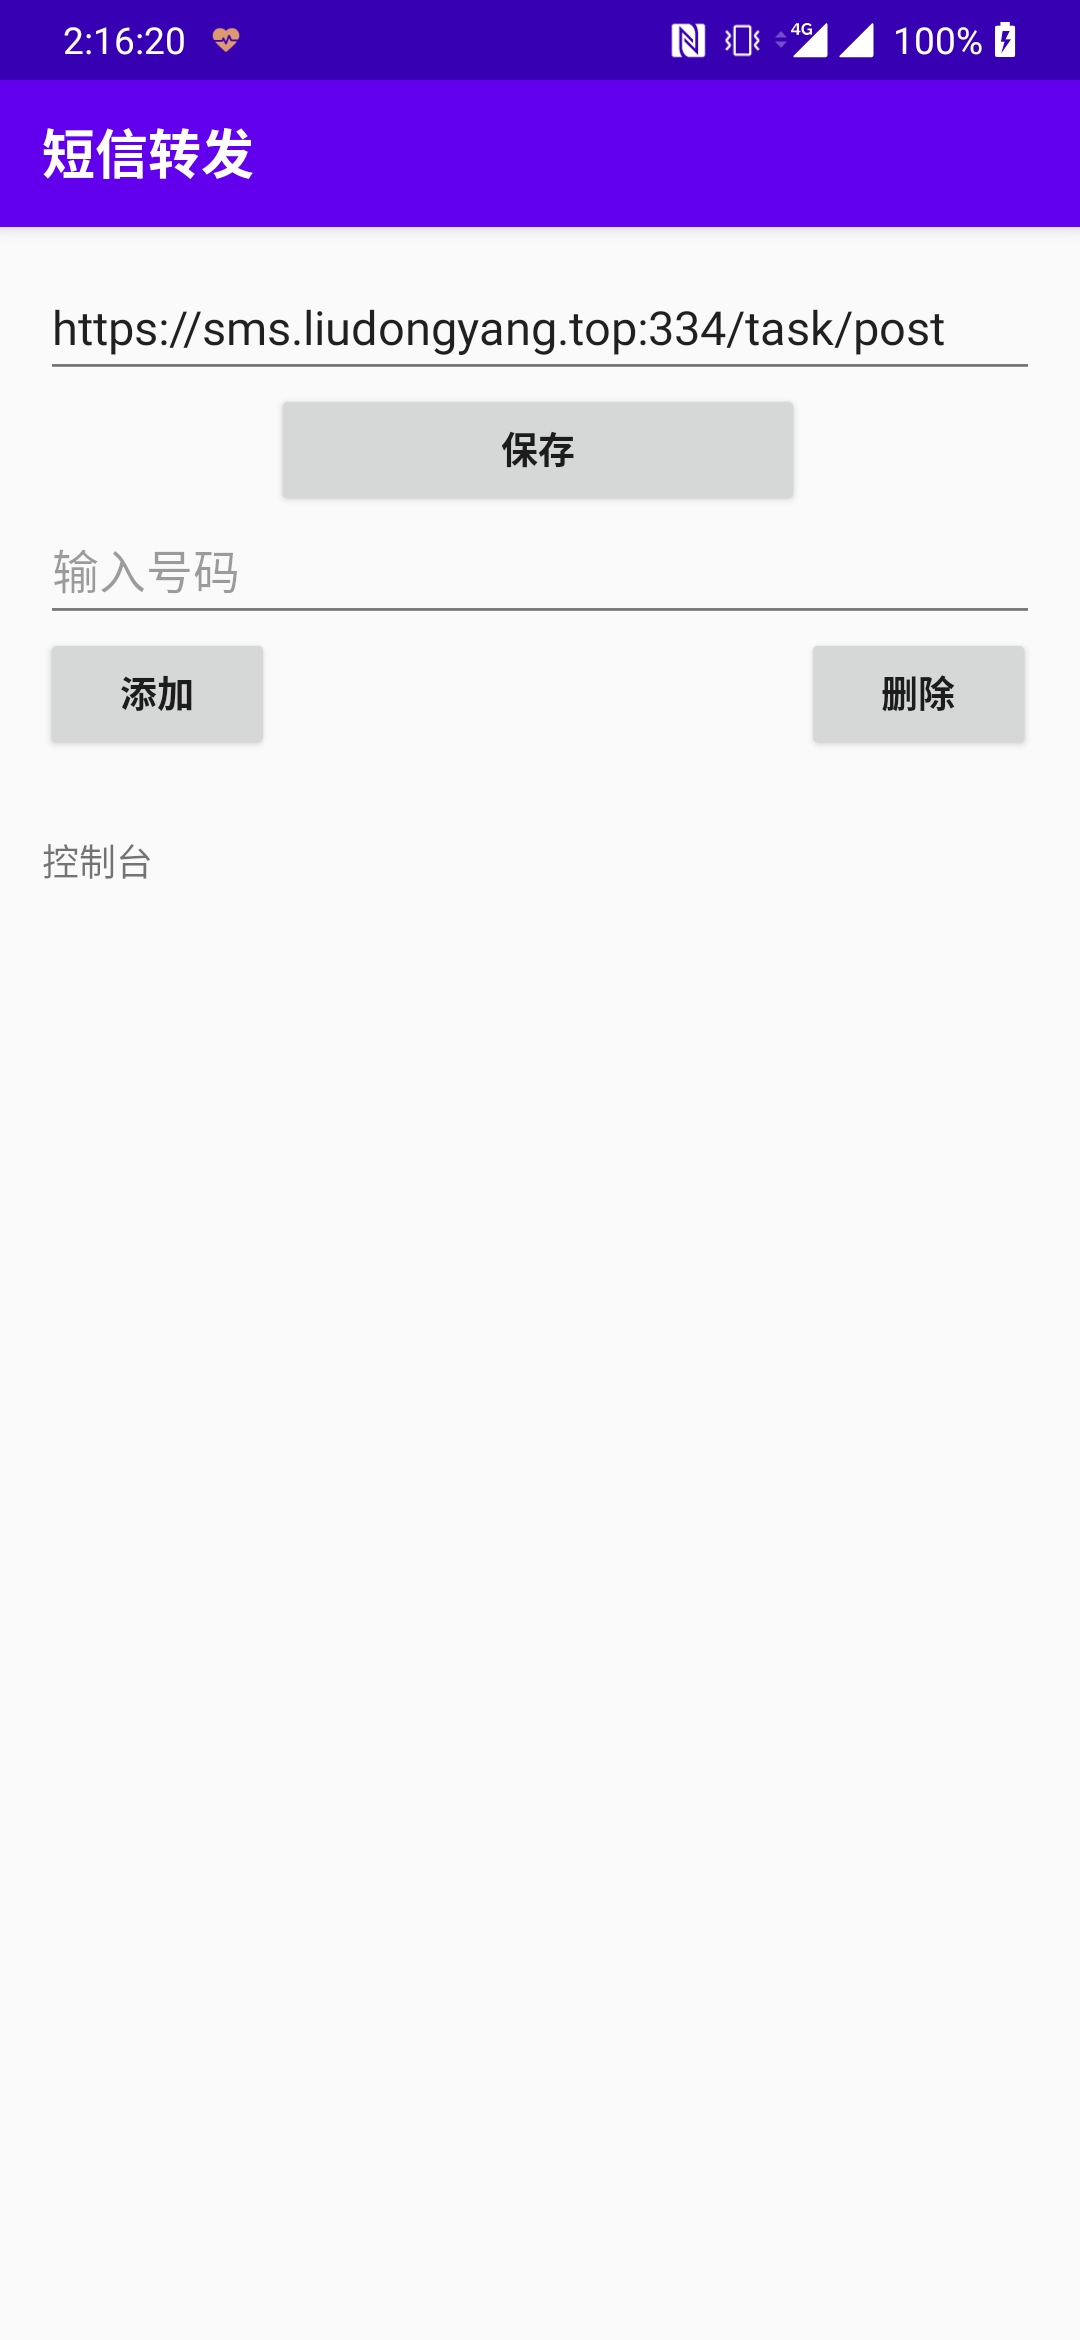
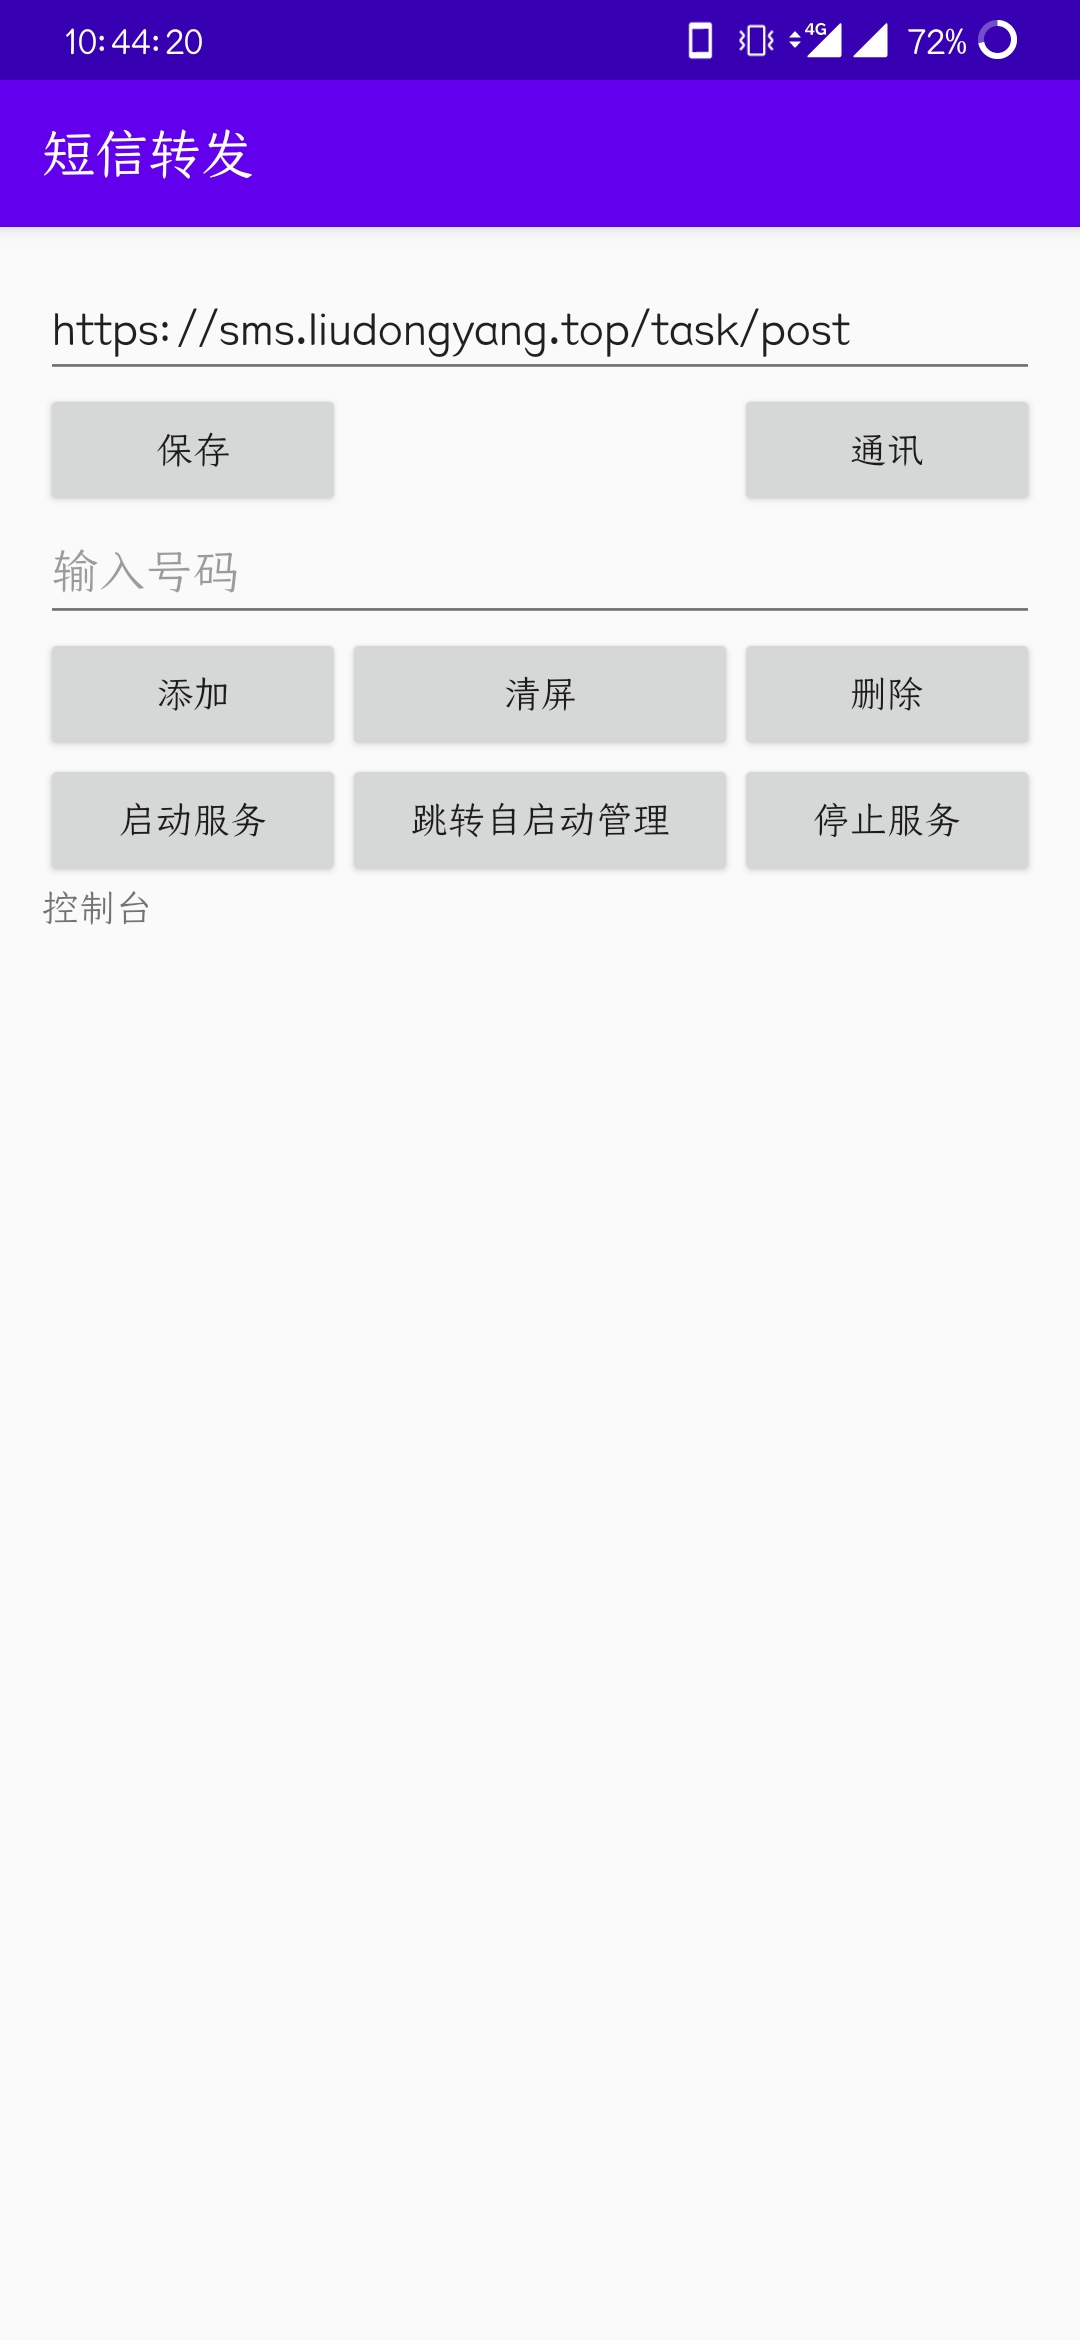
引入保活服务 update README.md

diff --git a/README.md b/README.md
@@ -4,19 +4,19 @@
 
 最近公司需要使用本人手机接受很多验证码，平常工作就很忙... 频繁发送验证码就很烦躁，直接搞了这个app，非专业Android开发，找了一些资料看看了终于搞定了，有需要的可以拿走~
 
-
-## 此软件可以将手机上收到的指定短息信息内容发送到指定服务器
+## 此软件可以将手机上收到的指定短息信息内容发送到指定服务器或指定号码
 
 - [x] 信息转发
 - [x] 指定服务器地址
-- [x] 动态添加删除手机号
+- [x] 动态添加删除监听手机号
 - [x] 查看后台日志
 - [x] 权限获取提示
+- [x] 后台保活服务
 
-## 展示效果如下(点击图片可以查看演示地址)
+## 展示效果如下(点击图片可以查看博客导航栏位演示地址)
 
 <p align="center"><a href="https://leg.liudongyang.top" target="_blank" rel="noopener noreferrer"><img width="400" src="https://cdn.jsdelivr.net/gh/gitldy1013/SMSPoster-Pro/img/app.jpg" alt="app"></a></p>
 
-## 声明
+## 免责声明
 
 小app仅限学习交流之用，切勿应用盗取他人信息等其他违法行为，否则由使用者自行承担所有责任！
